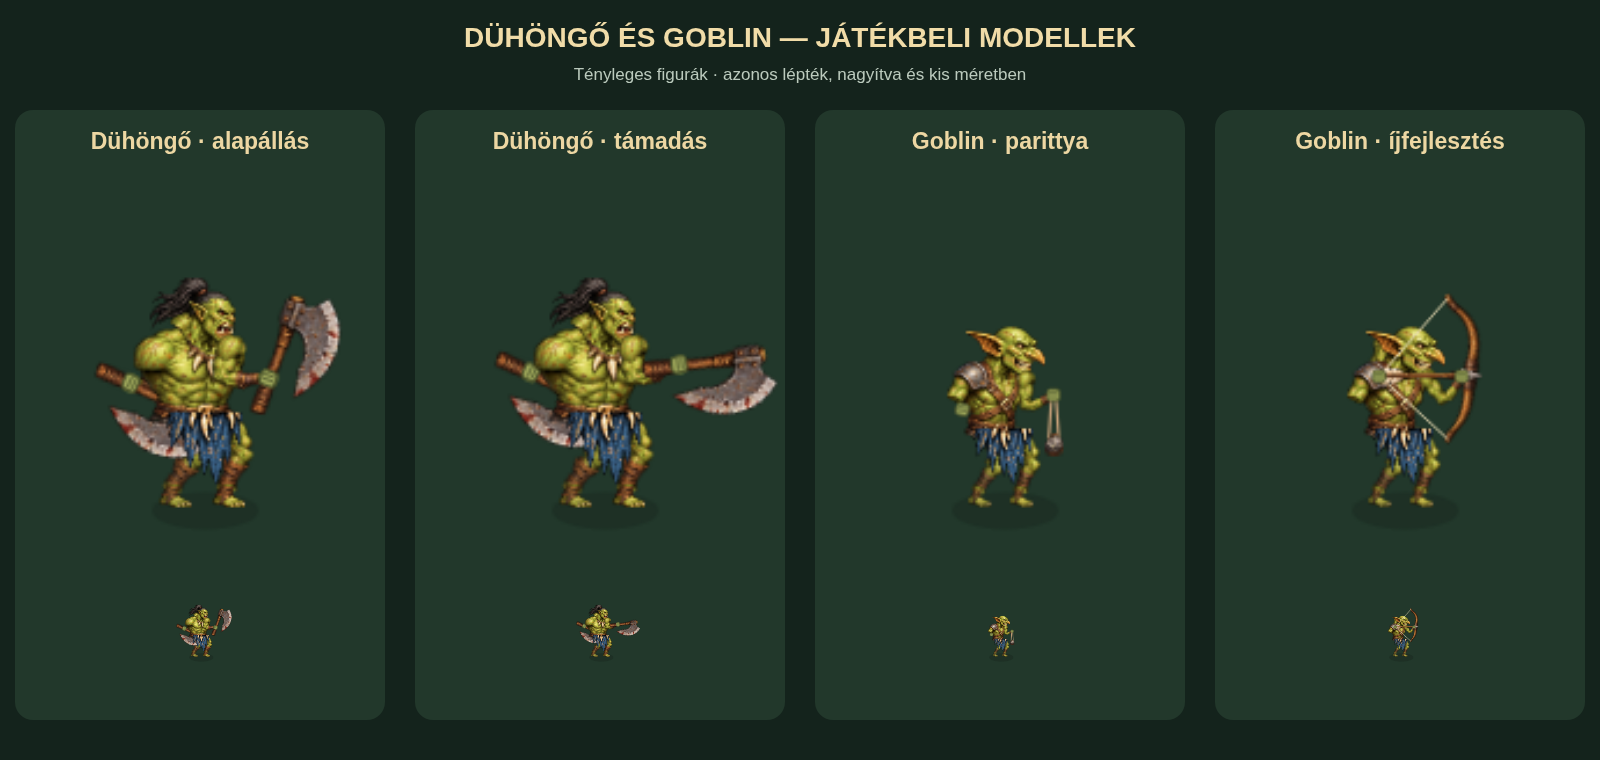
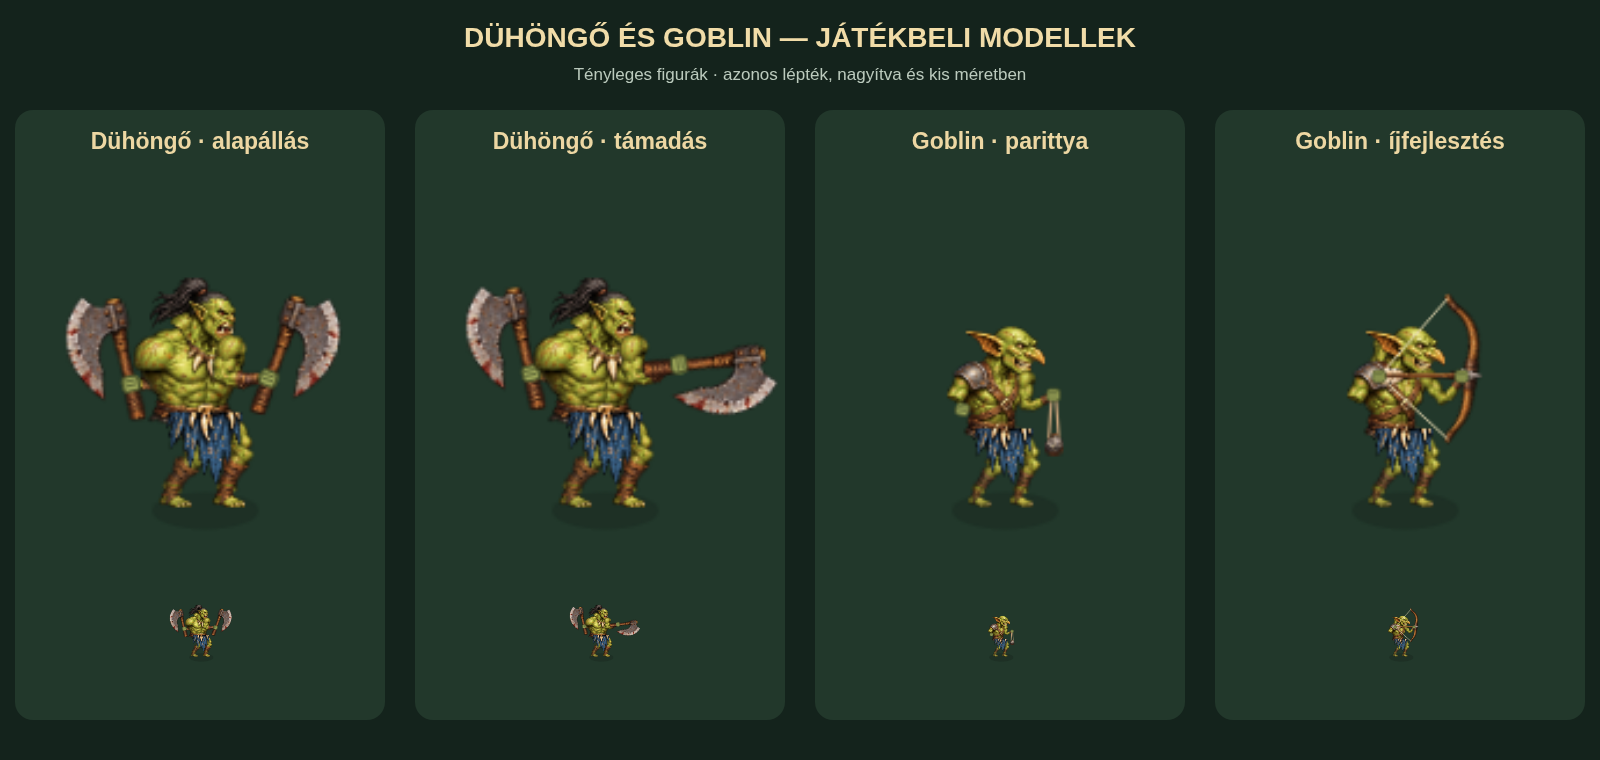
Raise Berserker guard and align Goblin sling swing with projectile release

diff --git a/src/rendering/orc-raider-figures.js b/src/rendering/orc-raider-figures.js
@@ -18,6 +18,10 @@ export function installOrcRaidersArt(R) {
     const point=bow?[7.5,-30]:slingPose({state:'attack',frame:6}).pouch;
     return point.map(n=>n*GOBLIN_SCALE);
   };
+  R.goblinLaunchDirection=()=>{
+    const a=slingSwing(1-.00001).pouch,b=slingSwing(1).pouch,dx=b[0]-a[0],dy=b[1]-a[1],length=Math.hypot(dx,dy);
+    return [dx/length,dy/length];
+  };
   R.goblinProjectilePoint=(a,t)=>goblinProjectilePoint(R,a,t);
 }
 function joint(a,b,upper,lower,bend=1) {
@@ -41,15 +45,22 @@ function fist(g,point,angle,elite=false) {
   g.lineWidth=.3;for(const y of [-.5,.35]){g.beginPath();g.moveTo(-1.3,y);g.lineTo(.9,y);g.stroke();}
   if(elite){g.strokeStyle='#efd178';g.lineWidth=.8;g.beginPath();g.moveTo(-1.9,-1.6);g.lineTo(-1.9,1.5);g.stroke();}g.restore();
 }
-function axe(g,R,hand,angle,elite) {
+function axe(g,R,hand,angle,elite,mirror=1) {
   const r=manifest.parts.axe,a=manifest.anchors.axe.grip,h=23.5,s=h/r[3];
-  g.save();g.translate(...hand);g.rotate(angle+manifest.axeRotation);g.fillStyle='#65783e';g.beginPath();g.ellipse(0,0,1.8,1.8,0,0,TAU);g.fill();g.beginPath();manifest.clips.axe.forEach(([x,y],i)=>i?g.lineTo((x-a[0])*r[2]*s,(y-a[1])*h):g.moveTo((x-a[0])*r[2]*s,(y-a[1])*h));g.closePath();g.clip();g.drawImage(R.orcRaidersTexture,...r,-a[0]*r[2]*s,-a[1]*h,r[2]*s,h);g.restore();fist(g,hand,angle,elite);
+  g.save();g.translate(...hand);g.rotate(angle+manifest.axeRotation*mirror);g.scale(mirror,1);g.fillStyle='#65783e';g.beginPath();g.ellipse(0,0,1.8,1.8,0,0,TAU);g.fill();g.beginPath();manifest.clips.axe.forEach(([x,y],i)=>i?g.lineTo((x-a[0])*r[2]*s,(y-a[1])*h):g.moveTo((x-a[0])*r[2]*s,(y-a[1])*h));g.closePath();g.clip();g.drawImage(R.orcRaidersTexture,...r,-a[0]*r[2]*s,-a[1]*h,r[2]*s,h);g.restore();fist(g,hand,angle,elite);
+}
+function slingSwing(t) {
+  // One backswing from the hanging pouch into an overhead release. The arm
+  // pulls back, then follows through; the stone follows the combined motion.
+  const s=1-t,hand=[13-27*s*t*t,-25.5*s*s*s-144*s*s*t-112.5*s*t*t-37.5*t*t*t],angle=Math.PI/2+(Math.PI-.2)*t;
+  return {hand,angle,pouch:[hand[0]+Math.cos(angle)*12,hand[1]+Math.sin(angle)*12]};
 }
 function slingPose(pose) {
   const attack=pose.state==='attack',released=attack&&pose.frame>=7,recovery=released?(pose.frame-7)/4:0;
-  const angle=!attack?Math.PI/2:pose.frame<4?-Math.PI/2+(pose.frame+1)/4*TAU:pose.frame<7?mix(Math.PI*1.5,TAU-.55,(pose.frame-3)/3):TAU-.55+recovery*.8;
-  const hand=attack?[13,-27]:[13,-25.5],pouch=[hand[0]+Math.cos(angle)*12,hand[1]+Math.sin(angle)*12];
-  return {hand,pouch,angle,released,loaded:pose.state!=='death'&&!released};
+  const t=attack?Math.min(1,pose.frame/6):0,wind=slingSwing(t),release=slingSwing(1);
+  const hand=released?[mix(release.hand[0],17,recovery),mix(release.hand[1],-26,recovery)]:wind.hand;
+  const angle=released?release.angle+recovery*1.7:wind.angle,pouch=[hand[0]+Math.cos(angle)*12,hand[1]+Math.sin(angle)*12];
+  return {hand,pouch,angle,released,wind:t,loaded:pose.state!=='death'&&!released};
 }
 const bowData=(()=>{
   const r=manifest.parts.bow,a=manifest.anchors.bow,dx=(a.bottom[0]-a.top[0])*r[2],dy=(a.bottom[1]-a.top[1])*r[3];
@@ -73,17 +84,18 @@ export function drawOrcRaider(g,R,color,p,elite,pose,key,variant) {
   let farHand,nearHand,axes=[];
   if(gob){
     nearHand=bow?(pose.state==='attack'?[15,-30]:[13,-25.5]):sling.hand;
-    farHand=bow?(pose.state==='attack'?[mix(9,-5,p.wind),-30]:[4,-25.5]):[-9-walk*.5,-22];
+    farHand=bow?(pose.state==='attack'?[mix(9,-5,p.wind),-30]:[4,-25.5]):[-9-walk*.5+2*Math.sin(sling.wind*Math.PI),-22-Math.sin(sling.wind*Math.PI)*1.5];
   }else{
     const farLead=variant==='far';
     farHand=farLead?[mix(-13,8,strike),mix(-22-12*wind,-25,strike)]:[-13+2*wind,-22-2*strike];
     nearHand=farLead?[12+wind,-23-strike]:[mix(13-3*wind,15,strike),mix(-23-13.5*wind,-25.5,strike)];
-    axes=[{hand:farHand,angle:farLead?mix(2.0-2.5*wind,1.48,strike):2.0-.25*wind},{hand:nearHand,angle:farLead?.35-.15*wind:mix(.35-1.55*wind,1.45,strike)}];
+    axes=[{hand:farHand,angle:farLead?mix(-.22-.68*wind,1.48,strike):-.22-.08*wind,mirror:-1},{hand:nearHand,angle:farLead?.35-.15*wind:mix(.35-1.55*wind,1.45,strike),mirror:1}];
   }
   const far={shoulder:[-5.7,-29.8],wrist:[farHand[0]+(gob?0:1.2),farHand[1]]},near={shoulder:[6,-29.8],wrist:[nearHand[0]-(gob?0:1.2),nearHand[1]]};
+  if(gob&&!bow){near.shoulder[0]-=Math.sin(sling.wind*Math.PI)*.8;near.shoulder[1]-=Math.sin(sling.wind*Math.PI)*.45;}
   far.elbow=joint(far.shoulder,far.wrist,8.1,7.8,-1);near.elbow=joint(near.shoulder,near.wrist,7.2,7.2,1);
   limb(g,R,prefix+'Upper',far.shoulder,far.elbow);limb(g,R,prefix+'Fore',far.elbow,far.wrist);
-  if(!gob)axe(g,R,axes[0].hand,axes[0].angle,elite);
+  if(!gob)axe(g,R,axes[0].hand,axes[0].angle,elite,axes[0].mirror);
   const name=prefix+'Torso',r=manifest.parts[name],a=manifest.anchors[name],h=gob?20.5:22,w=h*r[2]/r[3],waist=[1,gob?-16.3:-15.5],at=[waist[0]-a.waist[0]*w,waist[1]-a.waist[1]*h];
   part(name,...at,h);
   const neck=[at[0]+a.neck[0]*w,at[1]+a.neck[1]*h],headName=prefix+'Head',hr=manifest.parts[headName],ha=manifest.anchors[headName].neck,hh=gob?13:14,hw=hh*hr[2]/hr[3];
@@ -91,7 +103,7 @@ export function drawOrcRaider(g,R,color,p,elite,pose,key,variant) {
   g.drawImage(cloth(R,color),-6.4,gob?-17.5:-16.6,14.5,13.8);
   limb(g,R,prefix+'Upper',near.shoulder,near.elbow);limb(g,R,prefix+'Fore',near.elbow,near.wrist);
   let payload=null;
-  if(!gob)axe(g,R,axes[1].hand,axes[1].angle,elite);
+  if(!gob)axe(g,R,axes[1].hand,axes[1].angle,elite,axes[1].mirror);
   else if(bow){
     const br=manifest.parts.bow,anchor=manifest.anchors.bow.grip,angle=pose.state==='attack'?0:.18,top=bowTip('top',nearHand,angle),bottom=bowTip('bottom',nearHand,angle);
     g.save();g.translate(...nearHand);g.rotate(bowData.rotation+angle);g.scale(bowData.scale,bowData.scale);g.beginPath();manifest.clips.bow.forEach(([x,y],i)=>i?g.lineTo((x-anchor[0])*br[2],(y-anchor[1])*br[3]):g.moveTo((x-anchor[0])*br[2],(y-anchor[1])*br[3]));g.closePath();g.clip();g.drawImage(R.orcRaidersTexture,...br,-anchor[0]*br[2],-anchor[1]*br[3],br[2],br[3]);g.restore();
@@ -114,8 +126,10 @@ export function drawOrcRaider(g,R,color,p,elite,pose,key,variant) {
 
 export function goblinProjectilePoint(R,a,t) {
   const from=R.pointAt(a.lane,a.offset),to=R.pointAt(a.to,a.toOffset),scale=R.ROAD.h/600*R.ROAD.zoom,face=a.goblinFace||(a.to>=a.lane?1:-1),start=R.goblinLaunchPoint(a.goblinBow);
-  const x0=from.x+start[0]*scale*face,y0=from.y+start[1]*scale,x1=to.x,y1=to.y-13*scale,arc=a.goblinBow?4:18;
-  return {x:mix(x0,x1,t),y:mix(y0,y1,t)-Math.sin(t*Math.PI)*arc*scale,angle:Math.atan2(y1-y0-Math.cos(t*Math.PI)*Math.PI*arc*scale,x1-x0),scale};
+  const x0=from.x+start[0]*scale*face,y0=from.y+start[1]*scale,x1=to.x,y1=to.y-13*scale;
+  if(a.goblinBow)return {x:mix(x0,x1,t),y:mix(y0,y1,t)-Math.sin(t*Math.PI)*4*scale,angle:Math.atan2(y1-y0-Math.cos(t*Math.PI)*Math.PI*4*scale,x1-x0),scale};
+  const direction=R.goblinLaunchDirection(),length=Math.min(Math.hypot(x1-x0,y1-y0)*.5,160*scale),cx=x0+direction[0]*face*length,cy=y0+direction[1]*length,s=1-t;
+  return {x:s*s*x0+2*s*t*cx+t*t*x1,y:s*s*y0+2*s*t*cy+t*t*y1,angle:Math.atan2(2*s*(cy-y0)+2*t*(y1-cy),2*s*(cx-x0)+2*t*(x1-cx)),scale};
 }
 export function drawGoblinShot(R,u,a,t) {
   if(u.key!=='orc_goblin'||!paintedOrcRaider(R,u))return false;

diff --git a/src/config/app.js b/src/config/app.js
@@ -1,6 +1,6 @@
 export const APP = Object.freeze({
-  version: '4.44.0',
-  label: 'V4.44.0 · DÜHÖNGŐ ÉS GOBLIN',
+  version: '4.44.1',
+  label: 'V4.44.1 · DÜHÖNGŐ ÉS GOBLIN',
   title: 'Roadlords – Dühöngő és Goblin',
   repository: 'krisztianmatekiss/Roadlords',
   musicRoot: 'https://raw.githubusercontent.com/krisztianmatekiss/roadlords-music/main/',

diff --git a/README.md b/README.md
@@ -1,4 +1,10 @@
-# Roadlords · V4.44.0
+# Roadlords · V4.44.1
+
+## V4.44.1 – Emelt balta és természetesebb parittyázás
+
+A Dühöngő távolabbi, a képen bal oldali baltája alapállásban felfelé áll, kifelé fordított éllel. A váltott csapások és a kézenkénti fogások megmaradtak.
+
+A Goblin a lógó parittyát egy összefüggő hátralendítéssel a feje fölé emeli. A csukló, a könyök és a váll követi a mozdulatot, a szabad kar ellensúlyoz. Az elengedett kő pályája az utolsó parittyamozgás irányában kezdődik, és az eredeti találati időpontban ér a célhoz. A nyilas változat, a sebzés és a támadási sebesség változatlan.
 
 ## V4.44.0 – Dühöngő és Goblin
 
